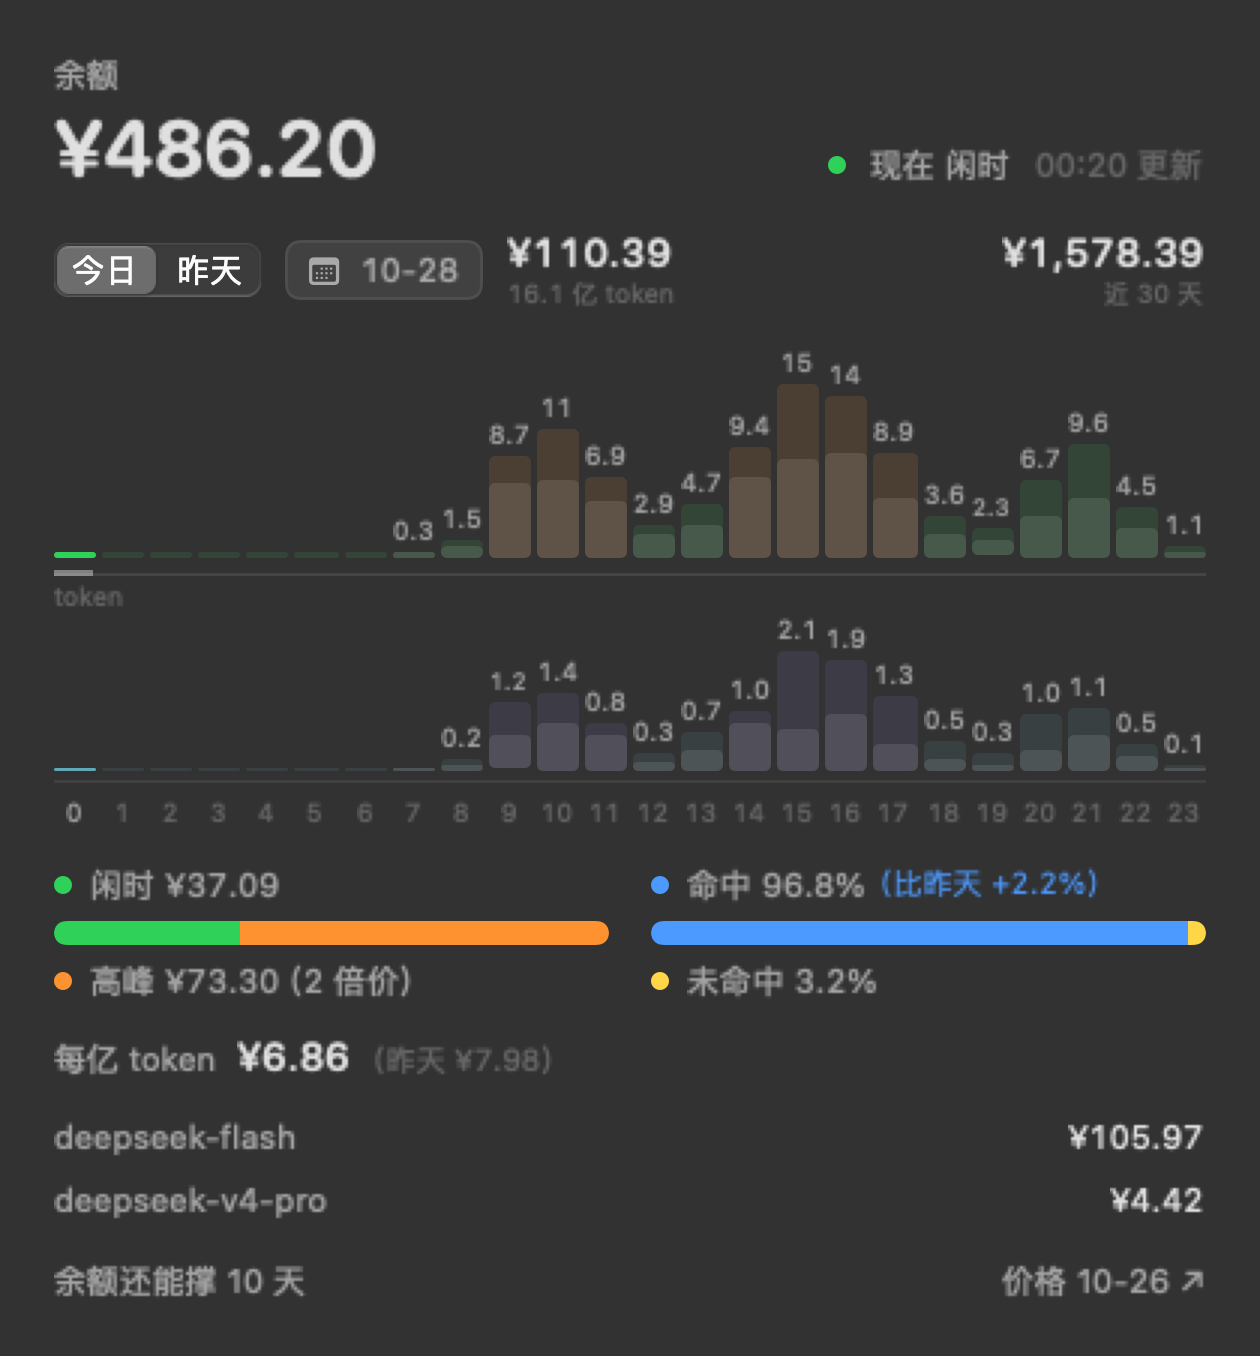
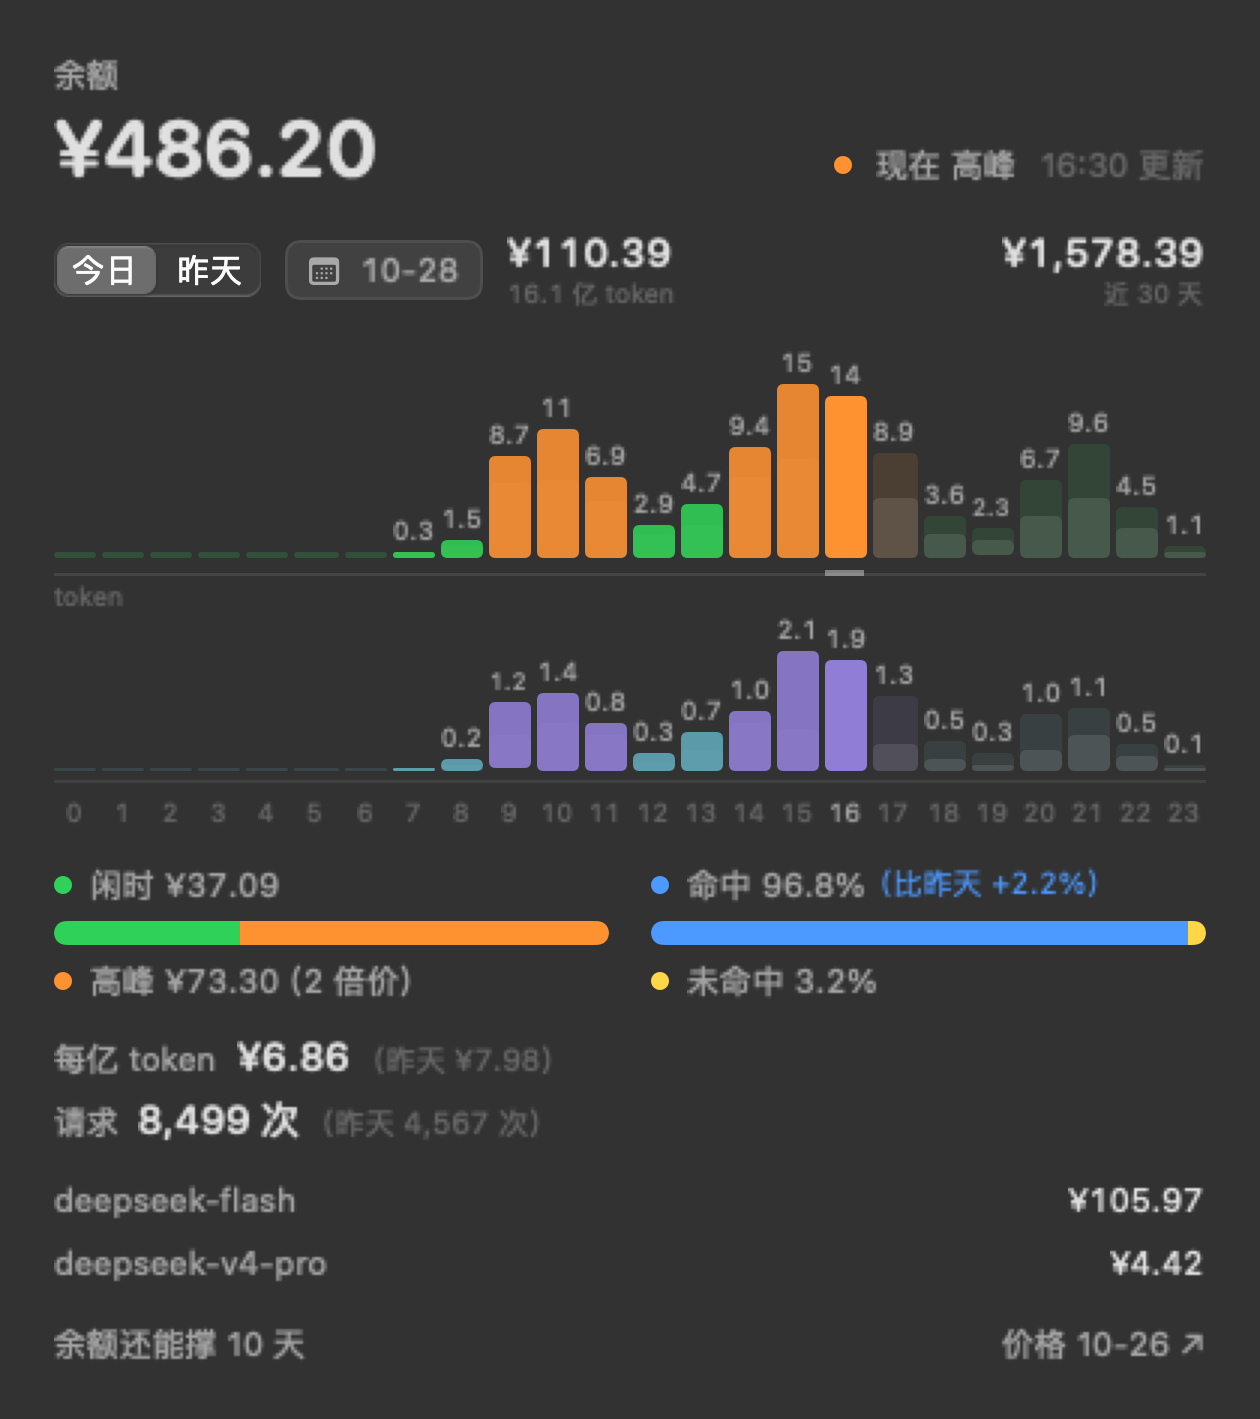
面板加请求数：那天的 API 调用次数 + 前一天对照（账单接口的 REQUEST 一直在丢）

diff --git a/Sources/DSMeter/L10n.swift b/Sources/DSMeter/L10n.swift
@@ -30,7 +30,7 @@ enum T {
     case setupTitle, setupBody, loginExpiredBody, setupBalanceOnly, loginStaysLocal
     case vsYesterday, vsPreviousDay, previousDay
     case runway, runwayNoData, priceLine
-    case hourChart, tokenLayer, unitPrice, unitPriceHelp
+    case hourChart, tokenLayer, unitPrice, unitPriceHelp, requestHelp, requests
 
     // 菜单
     case menuRefresh, menuSettings, menuLogin, menuUsage, menuPricing, menuQuit, menuAutoStart, statusTooltip
@@ -98,6 +98,8 @@ enum T {
         case .hourChart: return "上面一层是每小时花了多少（绿闲时、橙高峰，淡的是还没到的时段），下面一层是同一小时的 token 量；灰的是前一天同一小时"
         case .tokenLayer: return "token"
         case .unitPrice: return "每亿 token"
+        case .requests: return "请求"
+        case .requestHelp: return "平台记的请求数：一次 API 调用算一次（工具每转一圈算一次，子代理跑的也算）。账单接口只给这个总数，拆不出哪几次是我自己问的。"
         case .unitPriceHelp: return "那天的花费 ÷ 那天的 token 量（命中 + 未命中 + 输出）× 1 亿。高峰时段长、缓存没命中，这个数就高。"
         case .menuRefresh: return "刷新"
         case .menuSettings: return "设置…"
@@ -206,6 +208,8 @@ enum T {
         case .hourChart: return "Top: spend per hour (green off-peak, orange peak, faded = not yet). Below: tokens for the same hour. Grey is the same hour yesterday."
         case .tokenLayer: return "tokens"
         case .unitPrice: return "Per 100M tokens"
+        case .requests: return "Requests"
+        case .requestHelp: return "Requests as the platform counts them: one per API call — every tool round and every subagent run. The billing API only gives this total; it cannot split out the calls I made myself."
         case .unitPriceHelp: return "The day's spend ÷ its tokens (cache hit + miss + output) × 100M. More peak hours or more cache misses push it up."
         case .menuRefresh: return "Refresh"
         case .menuSettings: return "Settings…"
@@ -303,6 +307,22 @@ enum L {
     static func tokenTotal(_ number: String, suffix: String) -> String {
         let head = suffix.isEmpty ? number : (Lang.current == .zh ? "\(number) \(suffix)" : "\(number)\(suffix)")
         return "\(head) \(T.tokenCount.s)"
+    }
+
+    /// "8,499 次" / "8,499"：请求数那一行的值（单位在左边那个标签上：请求）。
+    static func requestCount(_ count: Int) -> String {
+        let number = Fmt.count(count)
+        return Lang.current == .zh ? "\(number) 次" : number
+    }
+
+    /// 请求数后面那个对照：「（昨天 4,567 次）」/ "(yesterday 4,567)"。
+    static func requestsReference(_ count: String, relation: String) -> String {
+        switch Lang.current {
+        case .zh:
+            return "（\(relation) \(count) 次）"
+        case .en:
+            return "(\(relation.prefix(1).lowercased())\(relation.dropFirst()) \(count))"
+        }
     }
 
     /// 柱子/总量上那个数：三位以上不留小数（"1609" 而不是 "1609.0"）。

diff --git a/Sources/DSMeter/MeterPanel.swift b/Sources/DSMeter/MeterPanel.swift
@@ -153,6 +153,8 @@ struct MeterPanel: View {
 
                 unitPriceRow.padding(.top, 10).dismissesPicker(closePicker)
 
+                requestsRow.padding(.top, 5).dismissesPicker(closePicker)
+
                 if modelSlots > 0 {
                     VStack(alignment: .leading, spacing: 7) {
                         ForEach(0..<modelSlots, id: \.self) { index in
@@ -585,8 +587,41 @@ struct MeterPanel: View {
         .help(T.unitPriceHelp.s)
     }
 
-    // MARK: - 页脚
+    // MARK: - 请求数
 
+    /// 那天平台记了多少次调用。一次 API 调用算一次（工具每转一圈、子代理跑的都在里面），
+    /// 所以它比「我打过多少句话」大一个量级，不能当提问数看。
+    private var requestsRow: some View {
+        let count = dayLoaded && day.requests > 0 ? day.requests : nil
+        return HStack(alignment: .firstTextBaseline, spacing: 6) {
+            Text(T.requests.s)
+                .font(Style.body)
+                .foregroundStyle(.secondary)
+            if let count {
+                Text(L.requestCount(count))
+                    .font(Style.value)
+                    .monospacedDigit()
+                if let previous = shadow?.requests, previous > 0 {
+                    Text(L.requestsReference(
+                        Fmt.count(previous),
+                        relation: meter.selected == 0 ? T.yesterday.s : T.previousDay.s
+                    ))
+                    .font(.system(size: 10))
+                    .monospacedDigit()
+                    .foregroundStyle(.tertiary)
+                }
+            } else {
+                Text("—")
+                    .font(Style.value)
+                    .monospacedDigit()
+                    .foregroundStyle(.secondary)
+            }
+            Spacer(minLength: 0)
+        }
+        .help(T.requestHelp.s)
+    }
+
+    // MARK: - 页脚
     private var footer: some View {
         HStack(alignment: .firstTextBaseline, spacing: 8) {
             Text(runwayText).font(Style.body).foregroundStyle(.secondary)

diff --git a/Sources/DSMeter/Meter.swift b/Sources/DSMeter/Meter.swift
@@ -331,15 +331,16 @@ final class Meter: ObservableObject {
             bill.modelCost = ["deepseek-flash": flash, "deepseek-v4-pro": pro]
             let tokens = total * 13_000_000 * density
             // hitDrop：那天命中的份额比基准差多少（假数据里每天不一样，命中率那行才有「比昨天」可看）
+            // 请求数按真实比例给：一次请求平均十几万 token（上下文长），所以一元钱不到一百次
             bill.tokens = [
                 "deepseek-flash": .init(
-                    requests: Int(total * 330),
+                    requests: Int(total * 74 * density),
                     miss: Int(tokens * 0.96 * (0.03 + hitDrop)),
                     hit: Int(tokens * 0.96 * (0.97 - hitDrop)),
                     response: Int(tokens * 0.96 * 0.12)
                 ),
                 "deepseek-v4-pro": .init(
-                    requests: Int(total * 9),
+                    requests: Int(total * 3 * density),
                     miss: Int(tokens * 0.04 * (0.08 + hitDrop)),
                     hit: Int(tokens * 0.04 * (0.92 - hitDrop)),
                     response: Int(tokens * 0.04 * 0.15)

diff --git a/Sources/DSMeter/Probe.swift b/Sources/DSMeter/Probe.swift
@@ -120,6 +120,11 @@ enum Probe {
             "yesterdayMissRate": yesterdayMissRate(meter.snap),
             "avgDays": meter.snap.avgDays,
             "requests": meter.snap.today.requests,
+            "yesterdayRequests": meter.snap.days[1]?.requests ?? -1,
+            // 一次请求平均多少 token：token 总量 ÷ 请求数。面板上两个数摆在一起，看的人自己也能除。
+            "perRequestTokens": meter.snap.today.requests > 0
+                ? Double(meter.snap.today.tokenTotal) / Double(meter.snap.today.requests)
+                : -1,
             "miss": meter.snap.today.miss,
             "hit": meter.snap.today.hit,
             "output": meter.snap.today.output,

diff --git a/Sources/DSMeter/Format.swift b/Sources/DSMeter/Format.swift
@@ -35,5 +35,18 @@ enum Fmt {
         return nil
     }
 
+    /// 请求数这种整数：带千分位（9403 → "9,403"）。四五位数一眼要认出量级。
+    static func count(_ value: Int) -> String {
+        countFormatter.string(from: NSNumber(value: value)) ?? String(value)
+    }
+
+    private static let countFormatter: NumberFormatter = {
+        let f = NumberFormatter()
+        f.numberStyle = .decimal
+        f.maximumFractionDigits = 0
+        f.usesGroupingSeparator = true
+        return f
+    }()
+
     static func clock(_ date: Date) -> String { clockFormatter.string(from: date) }
 }

diff --git a/README.md b/README.md
@@ -25,7 +25,7 @@ open "/Applications/DS Meter.app"
 
 然后：菜单栏那格 → 「登录网页读取」→ 登录 → 出数。
 
-点菜单栏那格，面板从上面掉下来：余额、今天 / 昨天、那天的每小时柱子和 token、闲时 / 高峰各花了多少、缓存命中率、每亿 token 的单价（那天花了多少 ÷ 那天的 token 量，跟前一天比着看）、分模型、还能撑几天。没登录时那里是一句话加一颗按钮。
+点菜单栏那格，面板从上面掉下来：余额、今天 / 昨天、那天的每小时柱子和 token、闲时 / 高峰各花了多少、缓存命中率、每亿 token 的单价（那天花了多少 ÷ 那天的 token 量，跟前一天比着看）、请求数（平台记的 API 调用次数，跟前一天比）、分模型、还能撑几天。没登录时那里是一句话加一颗按钮。
 
 日期按钮把最近 30 天铺成一条柱条，点哪天看哪天。
 
@@ -128,7 +128,7 @@ open "/Applications/DS Meter.app"
 | 显示 | 来源 | 精度 |
 | --- | --- | --- |
 | 余额 | `api.deepseek.com/user/balance`（`sk-`） | 实时，到分 |
-| 今天 / 每小时 / 分模型 / 命中率 / 近 30 天 / 还能撑几天 | `platform.deepseek.com/api/v0/usage/by_api_key/{cost,amount}`（登录态） | 跟网页用量页同源，滞后约 5 分钟 |
+| 今天 / 每小时 / 分模型 / 命中率 / 请求数 / 近 30 天 / 还能撑几天 | `platform.deepseek.com/api/v0/usage/by_api_key/{cost,amount}`（登录态） | 跟网页用量页同源，滞后约 5 分钟 |
 
 ## 已知限制
 
